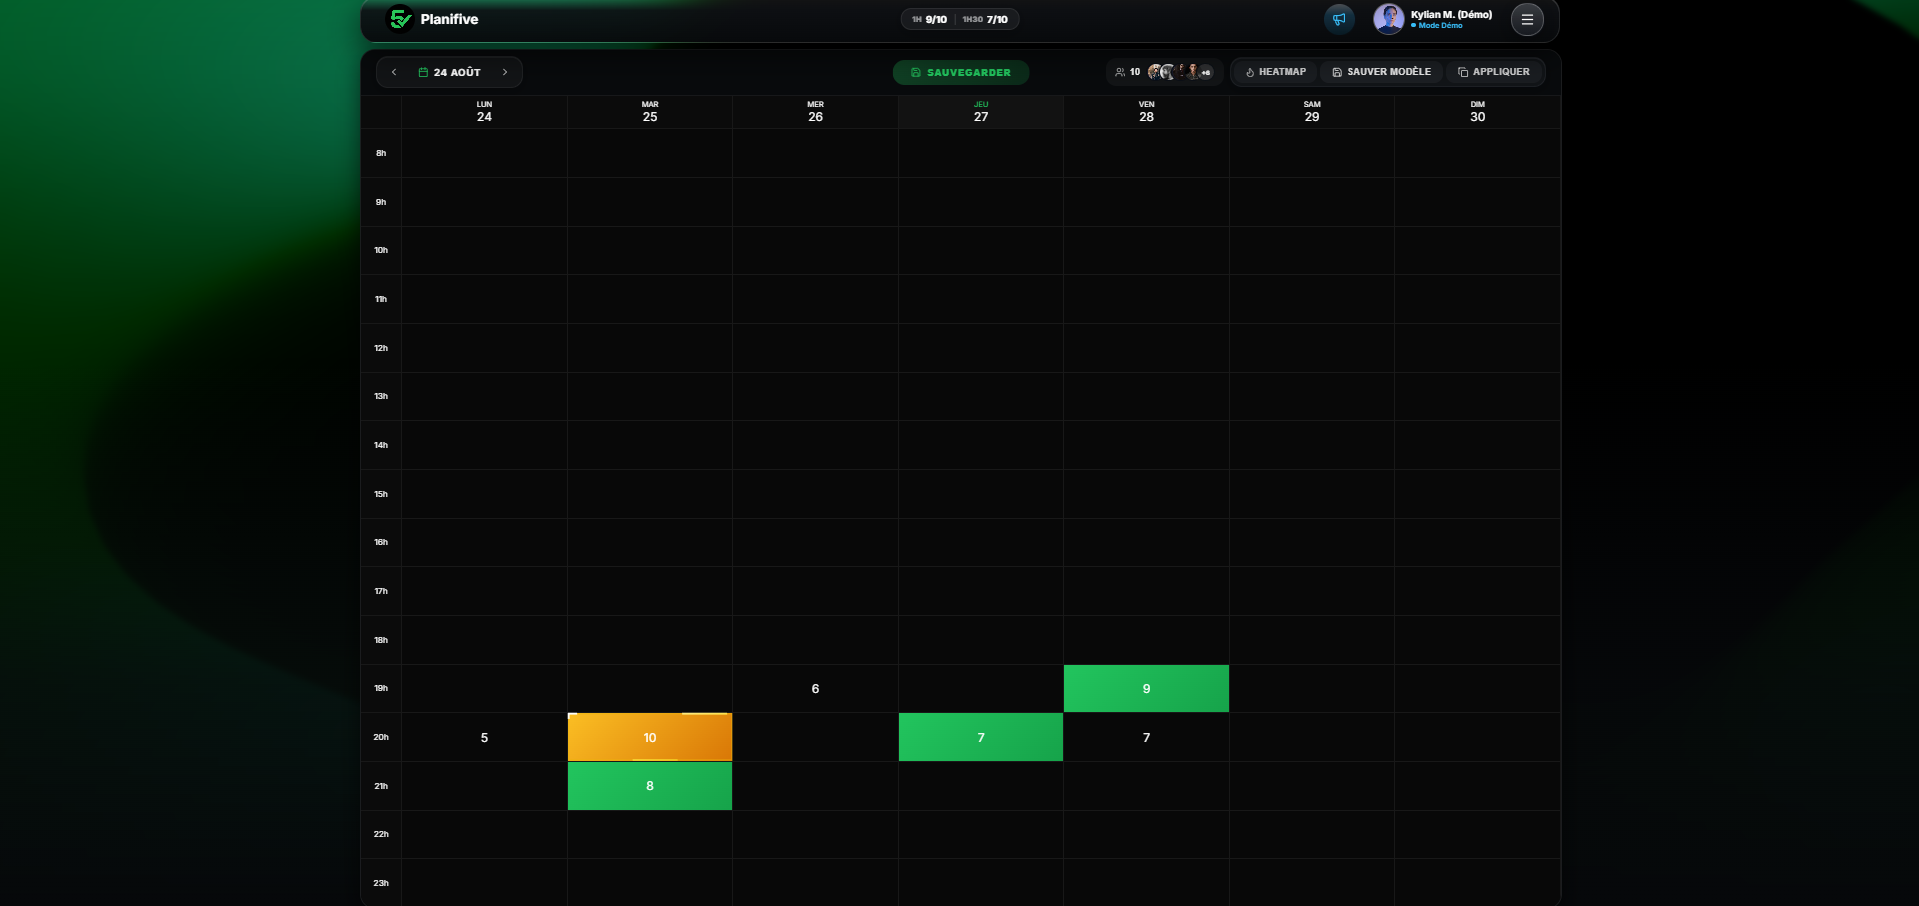
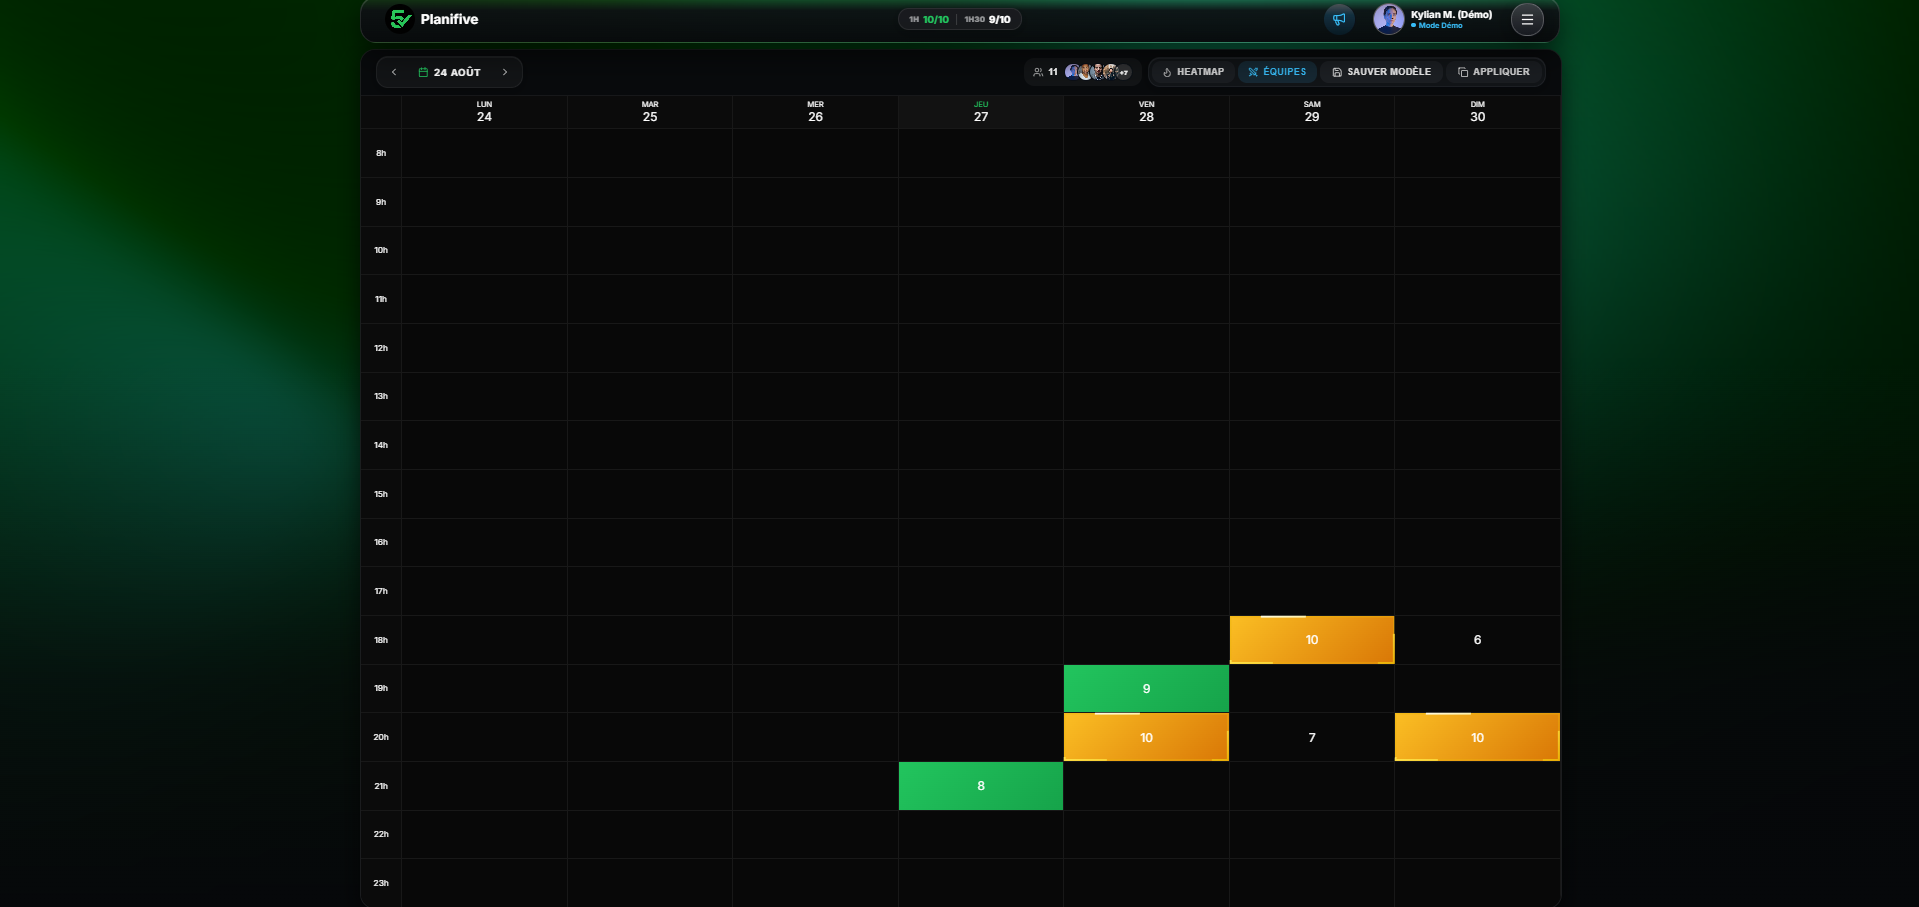
docs: mise a jour complete du README avec toutes les captures d'ecran

diff --git a/README.md b/README.md
@@ -1,14 +1,87 @@
-# Planifive - Plateforme de Planification et Analytics pour Matchs de Futsal
+# Planifive - Plateforme de Planification et d'Analytics pour Matchs de Futsal
 
-Planifive est une application web fullstack orientee performance concue pour automatiser l'organisation logistique, le matchmaking equilibre et le suivi statistique de sessions de futsal (Five).
+Planifive est une application web fullstack conçue pour automatiser l'organisation logistique, le matchmaking équilibré et l'analyse statistique de sessions de futsal (Five).
 
-L'application combine une interface utilisateur reactive (App Router Next.js, Glassmorphism, animations GPU), un moteur d'equilibrage d'equipes base sur des metriques individuelles, un systeme de gamification avance (profils style cartes FIFA Ultimate Team, votes MVP, leaderboards) ainsi qu'une passerelle bidirectionnelle avec un serveur Discord.
+Le projet transforme l'organisation traditionnellement chaotique des matchs (sondages éparpillés sur WhatsApp, déséquilibres de niveau, désistements imprévus) en une expérience fluide et automatisée grâce à une interface réactive, un algorithme d'équilibrage d'équipes et une passerelle bidirectionnelle avec Discord.
 
 ---
 
-## 1. Architecture Technique
+## 1. Fonctionnalités et Parcours Utilisateur
 
-Le projet repose sur une architecture moderne avec separation stricte des responsabilites, typage de bout en bout et optimisation des acces base de donnees.
+### 1.1 Tableau de Bord Centralisé (Dashboard)
+Le tableau de bord offre une vue synthétique de l'activité hebdomadaire :
+* **Indicateurs d'affluence** : Suivi du nombre de joueurs disponibles sur la semaine en cours.
+* **Créneaux à forte affluence (Golden Slots)** : Détection automatique des créneaux atteignant le seuil de 10 joueurs requis pour un match.
+* **Tendance sur 7 jours** : Graphique d'activité quotidien permettant d'identifier les jours les plus prisés.
+* **Bilan personnel & Win Rate** : Statistiques individuelles (victoires, nuls, défaites, série en cours) calculées en temps réel.
+* **Joueur du Mois (MVP)** : Mise en avant du joueur le plus performant sur les 30 derniers jours.
+
+![Tableau de bord Planifive](docs/screenshots/dashboardpng.png)
+
+---
+
+### 1.2 Grille de Planification Interactive
+Une matrice hebdomadaire interactive (Lundi à Dimanche, de 18h à 22h) :
+* **Vote en un clic** : Inscription instantanée sur un créneau horaire avec mise à jour optimiste de l'interface (Optimistic UI).
+* **Visibilité des effectifs** : Affichage des jauges de remplissage (ex: 8/10, 10/10) et des avatars des participants.
+* **Mise en valeur des créneaux complets** : Les créneaux atteignant 10 inscrits passent automatiquement en surbrillance dorée et débloquent les actions de match.
+
+![Grille de planification des disponibilités](docs/screenshots/planning.png)
+
+---
+
+### 1.3 Moteur d'Équilibrage et Générateur d'Équipes
+Dès qu'un créneau réunit au moins 10 participants, le générateur d'équipes peut être déclenché :
+* **Distribution algorithmique** : Répartition des 10 joueurs en deux formations (Équipe A vs Équipe B) en minimisant l'écart de niveau global (OVR).
+* **Prise en compte des attributs** : La note de chaque joueur combine sa note technique (60%) et son niveau d'endurance/cardio (40%).
+* **Ajustement manuel** : Possibilité de rééquilibrer les compositions avant validation finale.
+
+![Générateur d'équipes équilibrées](docs/screenshots/team-generation.png)
+![Résultat de la génération d'équipes](docs/screenshots/team-generation-2.png)
+
+---
+
+### 1.4 Profils Joueurs et Cartes FUT Dynamiques
+Chaque joueur dispose d'une carte personnalisée inspirée du mode Ultimate Team de FIFA :
+* **Attributs calculés (PAC, SHO, PAS, DRI, DEF, PHY)** : Générés dynamiquement en combinant l'assiduité, le taux de victoire et les données de performance.
+* **Évaluation par les pairs (Peer Rating)** : Les membres peuvent s'évaluer mutuellement de manière anonyme pour affiner les statistiques communautaires.
+* **Synergies et Némésis** : Détection statistique du binôme le plus efficace (Meilleur Duo) et du joueur adverse le plus redoutable (Bête Noire).
+* **Système de Badges** : Récompenses débloquées selon des paliers (Roi du Five, Le Métronome, Guerrier du Week-end, etc.).
+
+![Carte FUT et profil joueur](docs/screenshots/carte-fut.png)
+
+---
+
+### 1.5 Classement Général et Gamification
+Un leaderboard dynamique classe l'ensemble des joueurs selon leurs performances :
+* **Critères de classement** : Taux de victoire (Win Rate), volume de victoires, ratio victoires/défaites et forme récente.
+* **Podium visuel** : Mise en valeur des trois meilleurs joueurs de la saison.
+* **Filtrage et recherche** : Consultation rapide des fiches et statistiques de chaque membre.
+
+![Classement général des joueurs](docs/screenshots/leaderboard.png)
+
+---
+
+### 1.6 Historique des Matchs et Élection du MVP
+Un journal complet assure la traçabilité de toutes les rencontres passées :
+* **Feuilles de match** : Date, lieu (ex: Le Five, UrbanSoccer), score final et composition exacte des deux équipes.
+* **Module de vote MVP** : Après chaque match, les participants peuvent voter pour le meilleur joueur de la rencontre directement depuis l'interface ou via Discord.
+
+![Historique des rencontres](docs/screenshots/history.png)
+![Module de vote pour le MVP du match](docs/screenshots/election-mvp.png)
+
+---
+
+### 1.7 Écosystème Discord et Tâches Planifiées (CRON)
+L'application est synchronisée en temps réel avec un serveur Discord dédié :
+* **Webhooks automatisés** : Annonce des créneaux complets, récapitulatifs hebdomadaires et alertes d'appels de match.
+* **Bot Discord interactif** : Envoi d'embeds enrichis avec boutons d'interaction permettant de voter ou de répondre à un appel sans quitter Discord.
+* **Synchronisation des avatars** : Récupération automatique des photos de profil et pseudos Discord.
+* **Pipelines CRON** : Tâches d'arrière-plan automatisant les rappels de disponibilité et les clôtures de votes.
+
+---
+
+## 2. Architecture Technique et Choix d'Ingénierie
 
 ```text
                +---------------------------------------------------+
@@ -36,110 +109,73 @@ Le projet repose sur une architecture moderne avec separation stricte des respon
                                        +-------------------+
 ```
 
-### Points Cles d'Ingenierie
+### 2.1 Mode Démo Hermétique (Zero-DB Sandbox)
+Pour permettre aux visiteurs et recruteurs d'explorer l'intégralité de l'application sans nécessiter de compte Discord ni polluer la base de production :
+* Un provider d'authentification dédié (`demo-login`) initialise une session invité.
+* Un middleware applicatif intercepte toutes les routes API (`/api/dashboard`, `/api/matches`, `/api/availability`, etc.) pour servir un jeu de données simulé en mémoire (12 joueurs, 7 matchs, créneaux complets).
+* Aucune écriture n'est effectuée sur PostgreSQL : chaque session bénéficie d'une expérience propre et reproductible.
 
-* **Moteur d'interception Zero-DB (Mode Demo)** : Un middleware applicatif isole les sessions invites et sert un dataset simule deterministe de 12 joueurs et 7 matchs sans jamais solliciter ni ecrire dans la base de donnees PostgreSQL de production.
-* **Optimisation des requetes ORM** : Elimination des cascades sequentielles (N+1) au profit de requetes Prisma executees en parallele (`Promise.all`), reduisant le Time To First Byte (TTFB) de ~2500ms a ~280ms.
-* **Algorithme d'equilibrage de matchs** : Moteur de distribution minimisant le differentiel de note globale (OVR = fonction composite de la technique et du cardio) entre deux equipes de 5 a 6 joueurs.
-* **Systeme de notation par les pairs (Peer Rating)** : Calcul dynamique des attributs FUT (PAC, SHO, PAS, DRI, DEF, PHY) croisant les statistiques reelles en match (winrate, serie de victoires) et les evaluations anonymes de la communaute.
-* **Automatisation CRON** : Pipelines planifies pour la notification des creneaux complets, les rappels de cloture de votes et le declenchement des sondages MVP post-match.
+### 2.2 Optimisation des Performances Backend
+* **Éradication des requêtes séquentielles (N+1)** : Remplacement des cascades de requêtes `await` successives par des exécutions parallèles (`Promise.all`).
+* **Déduplication en mémoire** : Réduction du nombre d'appels à la base de données (la table des matchs n'est interrogée qu'une seule fois par cycle de dashboard, les métriques secondaires étant calculées en mémoire Node.js/V8).
+* **Gain mesuré** : Réduction du temps de réponse moyen de l'API de **~2500 ms à moins de 300 ms** (gain de performance x8).
 
----
-
-## 2. Stack Technologique
-
-| Domaine | Technologies |
-| :--- | :--- |
-| **Framework Frontend** | Next.js 16 (App Router), React 19, TypeScript |
-| **Styles & Animations** | Tailwind CSS, Vanilla CSS Modules, Framer Motion, Three.js / Canvas |
-| **Backend & API** | Next.js Route Handlers, Node.js Runtime |
-| **Base de Donnees & ORM** | PostgreSQL (Supabase), Prisma ORM |
-| **Authentification** | NextAuth.js (OAuth Discord, Credentials Provider Demo, Guild Restriction) |
-| **Integrations Tierces** | Discord API v10, Webhooks, CRON Workers |
+### 2.3 Sécurité et Contrôle d'Accès
+* **Vérification d'appartenance Discord (Guild Check)** : Le callback NextAuth vérifie auprès de l'API Discord que le compte appartient bien au serveur Five privé. Tout utilisateur externe est automatiquement refusé.
+* **Privilèges Administrateurs** : Les routes sensibles (gestion des créneaux, saisie des scores, modération) sont protégées par vérification d'email au niveau serveur.
 
 ---
 
-## 3. Apercu des Fonctionnalites et Captures
+## 3. Stack Technologique
 
-### 3.1 Tableau de Bord & Analytics
-Vue centralisee regroupant l'etat d'activite de la communaute, le suivi des creneaux a forte affluence, la dynamique de participation sur 7 jours et le joueur du mois (MVP).
-
-![Tableau de bord](docs/screenshots/01-dashboard.png)
-
-### 3.2 Grille de Planification Interactive
-Matrice de disponibilites hebdomadaire permettant aux joueurs d'enregistrer leurs creneaux en un clic avec synchronisation d'etat immediate et indicateur d'affluence.
-
-![Grille de planification](docs/screenshots/02-planning-grid.png)
-
-### 3.3 Generateur d'Equipes Equilibrees
-Algorithme de matchmaking repartissant automatiquement les inscrits d'un creneau en deux formations homogenes sur la base de leurs evaluations techniques et physiques.
-
-![Generateur d'equipes](docs/screenshots/03-team-generator.png)
-
-### 3.4 Profils Joueurs & Cartes FUT Dynamiques
-Fiche de joueur detaillee affichant les attributs calcules (Vitesse, Tir, Passe, Dribble, Defense, Physique), l'analyse des synergies (Meilleur binome) et la bete noire statistique.
-
-![Carte FUT et profil](docs/screenshots/04-fut-card-profile.png)
-
-### 3.5 Classement et Gamification
-Leaderboard comparatif base sur le taux de victoire, le ratio victoires/defaites, les series d'invincibilite et le debloquage de badges de performance.
-
-![Classement des joueurs](docs/screenshots/05-leaderboard.png)
-
-### 3.6 Historique des Rencontres & Votes MVP
-Journal des scores passes avec composition des effectifs, archivage chronologique et module de vote communautaire pour elire le joueur cle du match.
-
-![Historique des matchs](docs/screenshots/06-history-mvp.png)
+| Domaine | Technologies | Rôle |
+| :--- | :--- | :--- |
+| **Frontend** | Next.js 16 (App Router), React 19, TypeScript | Architecture modulaire, Server & Client Components, typage strict |
+| **Styling & UI** | Vanilla CSS Modules, Tailwind CSS, Framer Motion | Glassmorphism, animations GPU, design responsive |
+| **Effets Visuels** | Three.js, Canvas | Logo dynamique et effets interactifs |
+| **Backend** | Next.js Route Handlers, Node.js Runtime | Endpoints REST, logique métier, pipelines de données |
+| **Base de Données & ORM** | PostgreSQL (Supabase), Prisma ORM | Modélisation relationnelle, requêtes typées, migrations |
+| **Authentification** | NextAuth.js | OAuth Discord, Credentials Demo Provider, sessions JWT sécurisées |
+| **Automatisation** | Discord API v10, Webhooks, CRON Jobs | Notifications automatisées et intégration Discord bidirectionnelle |
 
 ---
 
-## 4. Modele de Donnees (Schema Prisma)
+## 4. Modèle de Données (Schéma Prisma)
 
-Le schema relationnel structure les entites principales suivantes :
+Le schéma relationnel PostgreSQL est structuré autour des entités suivantes :
 
-* **User** : Compte utilisateur, identifiants Discord, statistiques de jeu de base, metadonnees graphiques (couleur d'accent, avatar).
-* **Availability** : Couple (date, heure) liant un utilisateur a un creneau de la semaine.
-* **Match** : Score final, date, lieu, associations relationnelles many-to-many vers les equipes et archivage des votes MVP.
-* **Call** : Declenchement d'appels de match ponctuels avec suivi des reponses individuelles (Present, Absent, En attente).
-* **FUTCardRating** : Evaluations croisees des 6 attributs majeurs entre membres de la communaute.
-* **Notification** : File de messages in-app et alertes d'evenements.
-
----
-
-## 5. Securite et Restrictions d'Acces
-
-1. **Restriction par Serveur Discord (Guild Check)** :
-   Le callback de connexion NextAuth verifie l'appartenance de l'utilisateur a la guilde Discord configuree (`DISCORD_GUILD_ID`). Tout utilisateur externe au serveur Five prive est refuse.
-2. **Isolation du Mode Demo** :
-   Les requetes portant le flag de session demo sont interceptees en amont des controllers Prisma, garantissant l'integrite absolue de la base de production.
-3. **Controle des Droits d'Administration** :
-   Les routes critiques (gestion des creneaux, saisie des scores, moderation) requierent des privileges administrateurs explicites verifies par email de session.
+* **User** : Profil du joueur, identifiants Discord, notes techniques/cardio de base, couleur d'accent et préférences.
+* **Availability** : Association entre un joueur, une date et une heure de créneau.
+* **Match** : Résultat d'une rencontre, date, lieu, relations many-to-many vers les compositions d'équipes et registre des votes MVP.
+* **Call** : Instance d'appel de match ponctuel avec suivi des statuts de réponse (Accepté, Refusé, En attente).
+* **FUTCardRating** : Évaluations croisées des 6 attributs majeurs (PAC, SHO, PAS, DRI, DEF, PHY) attribuées entre joueurs.
+* **Notification** : File d'alertes in-app pour les événements clés (créneaux complets, rappels de vote).
 
 ---
 
-## 6. Installation et Deploiement Local
+## 5. Installation et Démarrage Local
 
-### Pre-requis
-* Node.js version 18.17 ou superieure
+### Pré-requis
+* Node.js version 18.17 ou supérieure
 * Gestionnaire de paquets `npm` ou `pnpm`
-* Instance PostgreSQL (locale ou distante type Supabase / Neon)
+* Instance PostgreSQL (Supabase, Neon ou instance locale)
 
-### 1. Cloner le depot
+### 1. Cloner le dépôt
 ```bash
 git clone https://github.com/Git-MohamedB/planifive.git
 cd planifive
 ```
 
-### 2. Installer les dependances
+### 2. Installer les dépendances
 ```bash
 npm install
 ```
 
-### 3. Configuration des variables d'environnement
-Creer un fichier `.env` a la racine en vous basant sur la structure suivante :
+### 3. Configurer les variables d'environnement
+Créer un fichier `.env` à la racine du projet en renseignant les clés nécessaires :
 
 ```env
-# Base de donnees
+# Base de données PostgreSQL (Supabase)
 DATABASE_URL="postgresql://user:password@host:5432/dbname"
 DIRECT_URL="postgresql://user:password@host:5432/dbname"
 
@@ -157,27 +193,28 @@ DISCORD_GUILD_ID="votre_guild_id"
 DISCORD_WEBHOOK_URL="https://discord.com/api/webhooks/..."
 DISCORD_SUMMARY_WEBHOOK_URL="https://discord.com/api/webhooks/..."
 
-# Cron Security Token
+# Sécurité des tâches CRON
 CRON_SECRET="votre_token_securite_cron"
 ```
 
-### 4. Synchroniser le schema Prisma
+### 4. Synchroniser le schéma de base de données
 ```bash
 npx prisma generate
 npx prisma db push
 ```
 
-### 5. Lancer le serveur de developpement
+### 5. Lancer l'application en développement
 ```bash
 npm run dev
 ```
-L'application est accessible sur `http://localhost:3000`.
+L'application est accessible à l'adresse `http://localhost:3000`.
 
 ---
 
-## 7. Scripts Disponibles
+## 6. Scripts Disponibles
 
-* `npm run dev` : Demarre l'environnement de developpement avec Turbopack.
-* `npm run build` : Compile et optimise l'application pour la production.
-* `npm run start` : Lance l'application en mode production.
-* `npm run lint` : Analyse statique du code source avec ESLint.
+* `npm run dev` : Lance le serveur de développement avec Turbopack.
+* `npm run build` : Compile et optimise le bundle de production.
+* `npm run start` : Démarre le serveur de production.
+* `npm run lint` : Exécute l'analyse statique du code avec ESLint.
+
